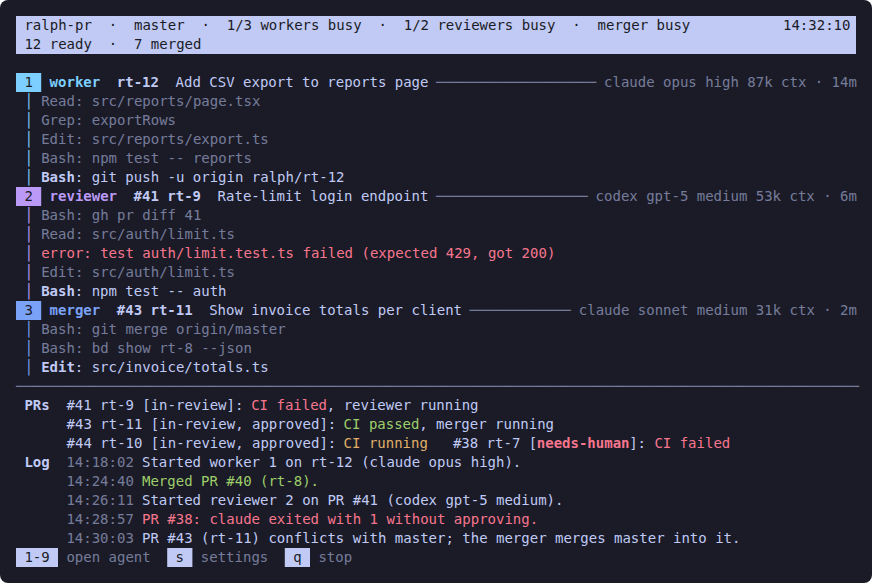
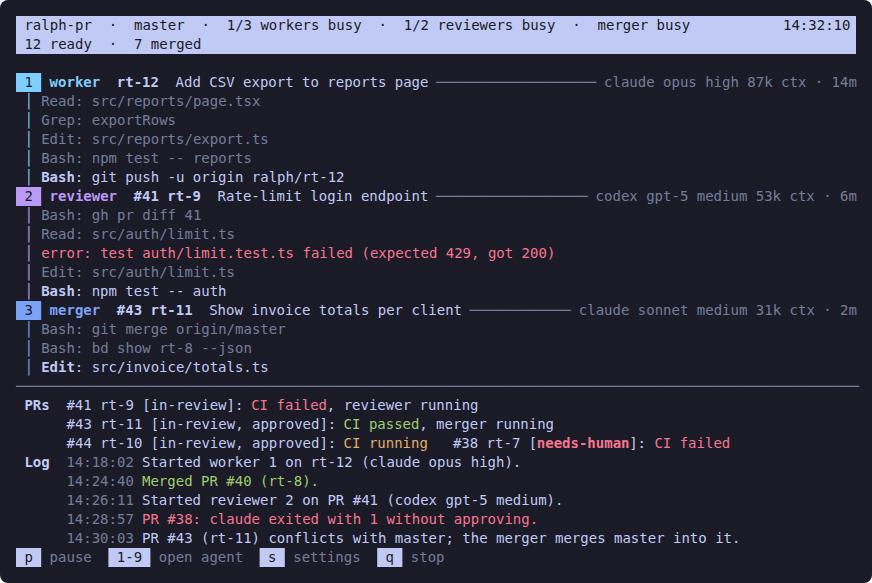
feat(ralph-pr): p pauses the dashboard run; Enter resumes
Running agents finish, nothing new starts and no PR merges, but the
supervisor stays open instead of exiting. q while paused stops as before.

Changed region(s): [[0.1239, 0.9262, 0.4025, 0.988], [0.031, 0.9262, 0.0929, 0.988], [0.4335, 0.9262, 0.4954, 0.988]]

diff --git a/README.md b/README.md
@@ -301,7 +301,7 @@ tasks, counting the tasks those block in turn; the oldest PR on a tie.
   - Colour marks state: workers cyan, reviewers magenta, the merger blue,
     errors and failures red, passed CI and merges green, running CI yellow. Older steps
     are dim, so the newest stands out. The header turns yellow while
-    waiting or stopping. `NO_COLOR` turns colour off.
+    waiting, pausing or stopping. `NO_COLOR` turns colour off.
   - `1`-`9` opens that agent full screen with all its steps; `↑`/`↓`
     scroll, `Esc` goes back.
   - `s` opens the settings: tabs Models (the agent lines' agent, model and
@@ -316,6 +316,10 @@ tasks, counting the tasks those block in turn; the oldest PR on a tie.
     in place. A bad value is not saved. Lines
     are not added, removed or reordered here: do that in an editor. `q` does
     not stop the run while the settings are open.
+  - `p` pauses: running agents finish, no new agent starts and no PR
+    merges, but the dashboard stays open. The header says `pausing`, then
+    `paused: press Enter to resume`. `Enter` resumes, also while agents are
+    still finishing; `q` stops.
   - `q` or Ctrl+C stops, the same as Ctrl+C below.
   - The supervisor log also goes to `.ralph-tui/pr-logs/ralph-pr.log`, since
     the dashboard closes when the run ends.
